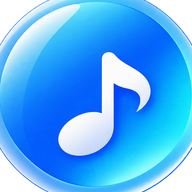
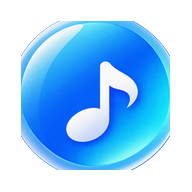
deploy: 同步壳 PWA 源码（2026-11-18 11:54）

diff --git a/sw.js b/sw.js
@@ -1,6 +1,6 @@
 // 最小 Service Worker：仅为满足 Chrome PWA 安装条件（需注册 + fetch handler）。
 // 壳页自身离线兜底；Tabliss iframe 的请求照常走网络，不缓存。
-const SHELL = 'tabliss-shell-v2';
+const SHELL = 'tabliss-shell-v3';   // v3：图标加安全边距（圆形不再贴边被容器裁切）
 const SHELL_FILES = ['index.html', 'pwa.json', 'icon-192.png', 'icon-512.png'];
 
 self.addEventListener('install', (e) => {

diff --git a/README.md b/README.md
@@ -26,6 +26,8 @@ Tabliss 原站（web.tabliss.io）有壁纸安装清单但缺 Service Worker，C
 | `sw.js` | 最小 Service Worker（Chrome 安装的硬性条件；导航强制绕缓存拿最新壳页，离线兜底） |
 | `icon-192.png` / `icon-512.png` | 应用图标（Chrome 安装要求 ≥144px，两档） |
 | `.nojekyll` | GitHub Pages 跳过 Jekyll 处理 |
+| `tabliss.json` | Tabliss 导出的配置（长沙天气 / 24 小时制时钟 / Unsplash 壁纸话题），可下载后导入 Tabliss |
+| `deploy.sh` | 部署脚本：同步到部署仓库并推送（临时克隆、用完即删） |
 
 ## 本地开发
 
@@ -37,16 +39,28 @@ python -m http.server 8000
 
 ## 部署 / 更新
 
-本仓库即部署源（GitHub Pages 自动发布 `main` 分支根目录）：
+**本目录是真源**，部署目标是独立仓库 `lijiqun/tabliss-pwa`（GitHub Pages 自动发布其 `main` 分支）：
 
-1. 改文件 → `git push origin main`
-2. 约 1 分钟后线上生效
+```bash
+# 改完本目录的文件后
+./deploy.sh
+```
+
+脚本会临时克隆部署仓库 → 覆盖部署文件 → 提交推送 → 删除临时目录（不留本地工作副本）。约 1 分钟后线上生效。
 
 | 改什么 | 生效方式 |
 |---|---|
 | 主题色（`pwa.json` 的 `theme_color` + `index.html` 的 `<meta theme-color>`，两处同步） | 应用窗口 Ctrl+Shift+R 强刷 |
 | 应用图标 | **卸载重装**（Chrome 安装时固化图标，刷新不更新） |
 | 应用名 | 卸载重装（`name` 用于安装确认与系统列表，`short_name` 用于任务栏/开始菜单磁贴） |
+
+## Tabliss 配置（tabliss.json）
+
+Tabliss 的配置导入是**基于文件**的（bundle 里只有 FileReader/Blob 实现，无 URL 导入参数），所以：
+
+1. 配置已托管在 https://lijiqun.github.io/tabliss-pwa/tabliss.json
+2. 在**任意 web.tabliss.io 标签页**（或应用窗口内）打开 Tabliss 设置 → Import → 选择该文件导入一次
+3. Tabliss 存入 web.tabliss.io 域的 localStorage → 同源同浏览器配置共享，**应用窗口之后每次启动自动套用**（天气城市、时钟样式、壁纸来源全部生效）
 
 ## 权限说明
 
